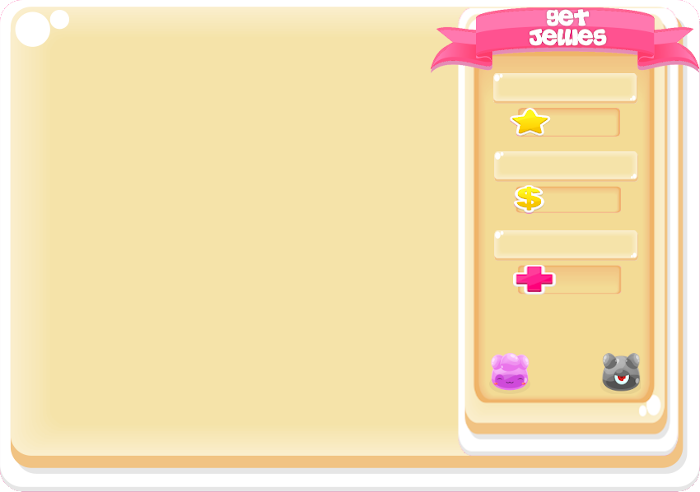
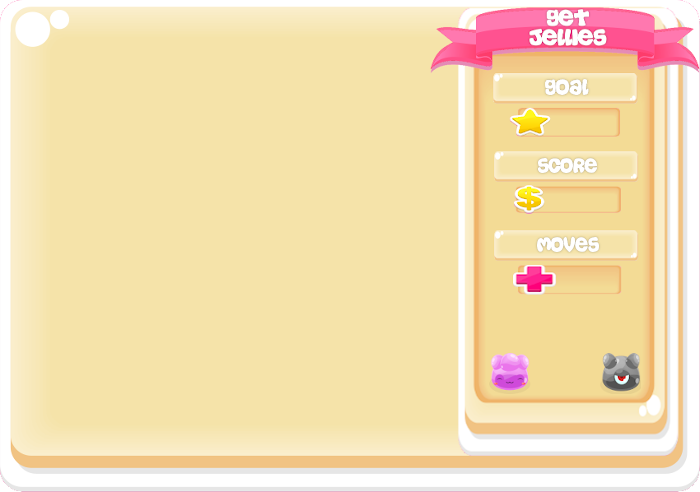
single object drawn

Changed region(s): [[0.75, 0.3049, 0.87, 0.3659], [0.75, 0.4573, 0.87, 0.5183], [0.78, 0.1524, 0.84, 0.2134]]

diff --git a/scripts/Diamond.esm.js b/scripts/Diamond.esm.js
@@ -1,13 +1,30 @@
-// import { Sprite } from './Sprite.esm.js';
+import { GAME_BOARD_X_OFFSET, GAME_BOARD_Y_OFFSET } from './Game.esm.js';
+import { Sprite } from './Sprite.esm.js';
 
-// const DIAMOND_ORIGINAL_SIZE = 60;
-// const DIAMOND_SIZE = 78;
-// const NUMBER_OF_DIAMONDS_TYPES = 6;
+const DIAMOND_ORIGINAL_SIZE = 166;
+const DIAMOND_SIZE = 145;
+const NUMBER_OF_DIAMONDS_TYPES = 6;
 
-// const DIAMOND_ZOOM = DIAMOND_SIZE / DIAMOND_ORIGINAL_SIZE;
+const DIAMOND_ZOOM = DIAMOND_SIZE / DIAMOND_ORIGINAL_SIZE;
 
-// export class Diamond extends Sprite{
-//     constructor(x, y, row, column, kind, diamondSpriteImage){
-//         super()
-//     }
-// }
+export class Diamond extends Sprite {
+    constructor(x, y, row, column, kind, diamondSpriteImage) {
+        const offset = {
+            x: GAME_BOARD_X_OFFSET,
+            y: GAME_BOARD_Y_OFFSET,
+        }
+        super(x, y,
+            DIAMOND_ORIGINAL_SIZE, DIAMOND_ORIGINAL_SIZE,
+            diamondSpriteImage, NUMBER_OF_DIAMONDS_TYPES,
+            offset);
+
+        this.column = column;
+        this.kind = kind;
+        this.row = row;
+        this.match = 0;
+    }
+
+    draw() {
+        super.draw(this.kind, DIAMOND_ZOOM);
+    }
+}

diff --git a/scripts/Game.esm.js b/scripts/Game.esm.js
@@ -2,6 +2,17 @@ import { canvas } from './Canvas.esm.js';
 import { Common, VISIBLE_SCREEN } from './Common.esm.js';
 import { gameLevels } from './gameLevels.esm.js';
 import { DATALOADED_EVENT_NAME, loader } from './Loader.esm.js';
+import { Diamond } from './Diamond.esm.js';
+import { media } from './Media.esm.js';
+
+export const GAME_BOARD_X_OFFSET = 40;
+export const GAME_BOARD_Y_OFFSET = -5;
+
+const gameState = {
+    pointsToWin: 7000,
+    getPlayerPoints: () => 1000,
+    getLeftMovement: () => 30,
+};
 
 class Game extends Common {
     constructor() {
@@ -12,11 +23,13 @@ class Game extends Common {
         window.removeEventListener(DATALOADED_EVENT_NAME, this.playLevel);
         const levelInfo = gameLevels[level - 1];
         this.changeVisibilityScreen(canvas.element, VISIBLE_SCREEN);
+        this.diamond = new Diamond(30, 50, 1, 1, 2, media.diamondsSprite);
         this.animate();
     }
 
     animate() {
-        canvas.drawGameOnCanvas();
+        canvas.drawGameOnCanvas(gameState);
+        this.diamond.draw();
         this.animationFrame = window.requestAnimationFrame(() => this.animate());
     }
 }

diff --git a/scripts/Sprite.esm.js b/scripts/Sprite.esm.js
@@ -1,0 +1,40 @@
+import { canvas } from './Canvas.esm.js';
+
+export class Sprite {
+    constructor(x, y, width, height, spritesImage, numberOfSprites = 1, offset = { x: 0, y: 0 }) {
+        this.alpha = 255;
+        this.height = height;
+        this.numberOfSprites = numberOfSprites;
+        this.offset = { ...offset };
+        this.spritesImage = spritesImage;
+        this.width = width;
+        this.x = x;
+        this.y = y;
+    }
+
+    draw(numberOfSprites = 0, ratio = 1) {
+        if (numberOfSprites > this.numberOfSprites) {
+            return;
+        }
+
+        if (this.alpha !== 255) {
+            canvas.context.globalAlpha = this.alpha / 255;
+        }
+
+        canvas.context.drawImage(
+            this.spritesImage,
+            numberOfSprites * this.width,
+            0,
+            this.width,
+            this.height,
+            this.x + this.offset.x,
+            this.y + this.offset.y,
+            this.width * ratio,
+            this.height * ratio
+        );
+
+        if (this.alpha !== 255) {
+            canvas.context.globalAlpha = 1;
+        }
+    }
+}

diff --git a/scripts/MainMenu.esm.js b/scripts/MainMenu.esm.js
@@ -9,14 +9,14 @@ const SCALE_PROPERTY = '--scale-value';
 
 
 class MainMenu extends Common {
-    constructor(){
+    constructor() {
         super(START_SCREEN_ID);
         this.bindToGameElements();
         this.resizeGameWindow();
         window.addEventListener('resize', this.resizeGameWindow);
     }
 
-    bindToGameElements(){
+    bindToGameElements() {
         const gameStartButton = this.bindToElement(START_SCREEN_GAME_BUTTON_ID);
         const gameSettingsButton = this.bindToElement(START_SCREEN_SETTINGS_BUTTON_ID);
 
@@ -24,12 +24,12 @@ class MainMenu extends Common {
         gameSettingsButton.addEventListener('click', () => this.showSettingsScreen());
     }
 
-    showLevelScreen(){
+    showLevelScreen() {
         this.changeVisibilityScreen(this.element, HIDDEN_SCREEN);
         this.changeVisibilityScreen(levelSelect.element, VISIBLE_SCREEN);
     }
 
-    showSettingsScreen(){
+    showSettingsScreen() {
         console.log('Ustawienia gry');
     }
 

diff --git a/scripts/Canvas.esm.js b/scripts/Canvas.esm.js
@@ -24,14 +24,25 @@ class Canvas extends Common {
     drawGameOnCanvas(gameState) {
         this.drawBackground();
         this.drawPointsToWin(gameState.pointsToWin);
-        this.drawPlayersPoints(gameState.getPlayerPoints())
+        this.drawPlayersPoints(gameState.getPlayerPoints());
+        this.drawLeftMovement(gameState.getLeftMovement());
     }
 
     drawBackground() {
         this.context.drawImage(media.backgroundImage, 0, 0);
     }
 
-    drawPointsToWin
+    drawPointsToWin(pointsToWin) {
+        this.context.fillText(`${pointsToWin}`, 562, 129);
+    }
+
+    drawPlayersPoints(playerPoints) {
+        this.context.fillText(`${playerPoints}`, 562, 206);
+    }
+
+    drawLeftMovement(leftMovement) {
+        this.context.fillText(`${leftMovement}`, 565, 286);
+    }
 
 }
 

diff --git a/scripts/Media.esm.js b/scripts/Media.esm.js
@@ -14,6 +14,17 @@ class Media {
     get bacgroundImage() {
         return this._bacgroundImage;
     }
+
+    set diamondsSprite(imageObject) {
+        if (!imageObject instanceof Image) {
+            return;
+        }
+        this._diamondsSprite = imageObject;
+    }
+
+    get diamondsSprite() {
+        return this._diamondsSprite;
+    }
 }
 
 export const media = new Media();

diff --git a/scripts/LevelSelect.esm.js b/scripts/LevelSelect.esm.js
@@ -45,6 +45,7 @@ class LevelSelect extends Common {
     }
 
     loadLevel(level) {
+        media.diamondsSprite = loader.loadImage('images/jellies.png');
         media.backgroundImage = loader.loadImage('images/levelbcg.png');
         window.addEventListener(DATALOADED_EVENT_NAME, () => game.playLevel(level));
     }

diff --git a/index.html b/index.html
@@ -1,5 +1,5 @@
 <!DOCTYPE html>
-<html lang="en">
+<html lang="pl">
 
 <head>
     <meta charset="UTF-8">
